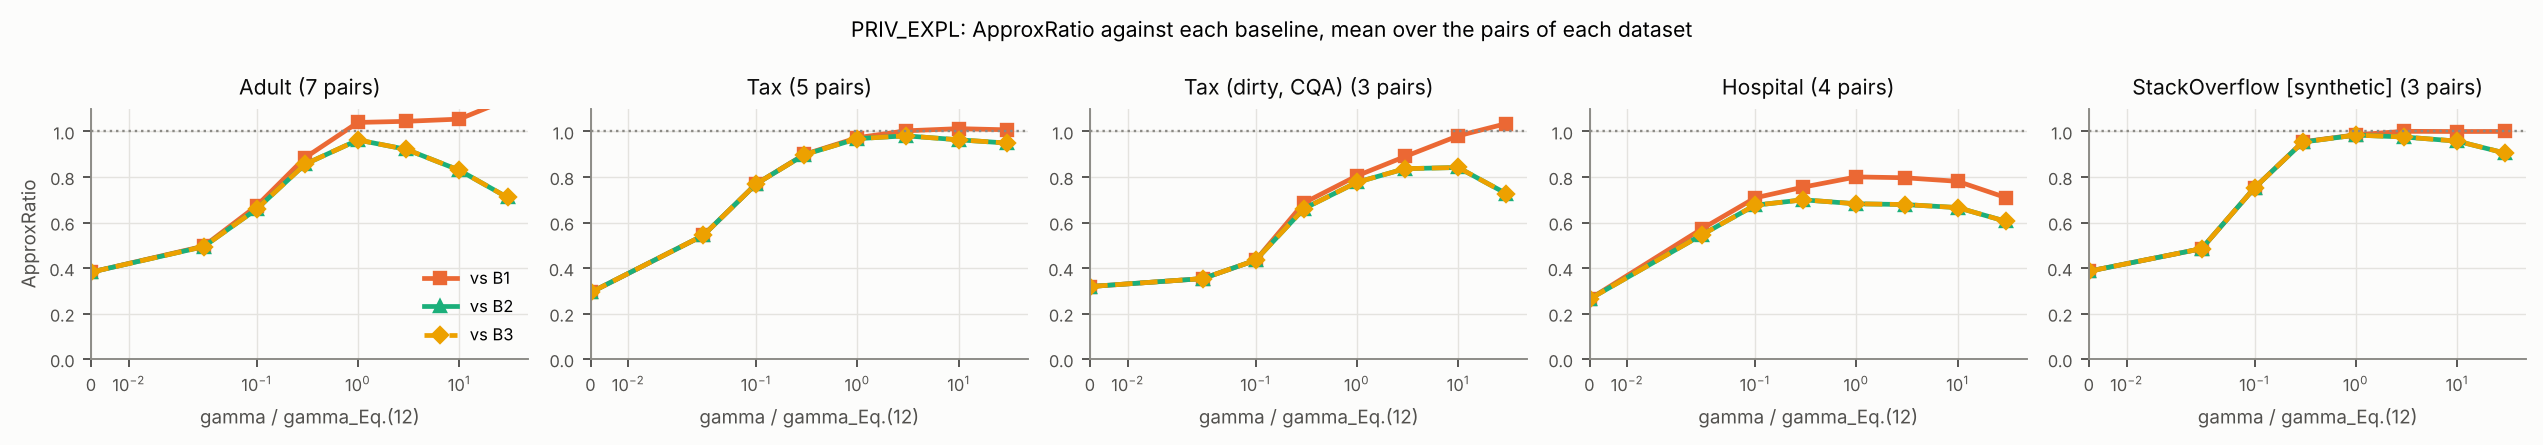
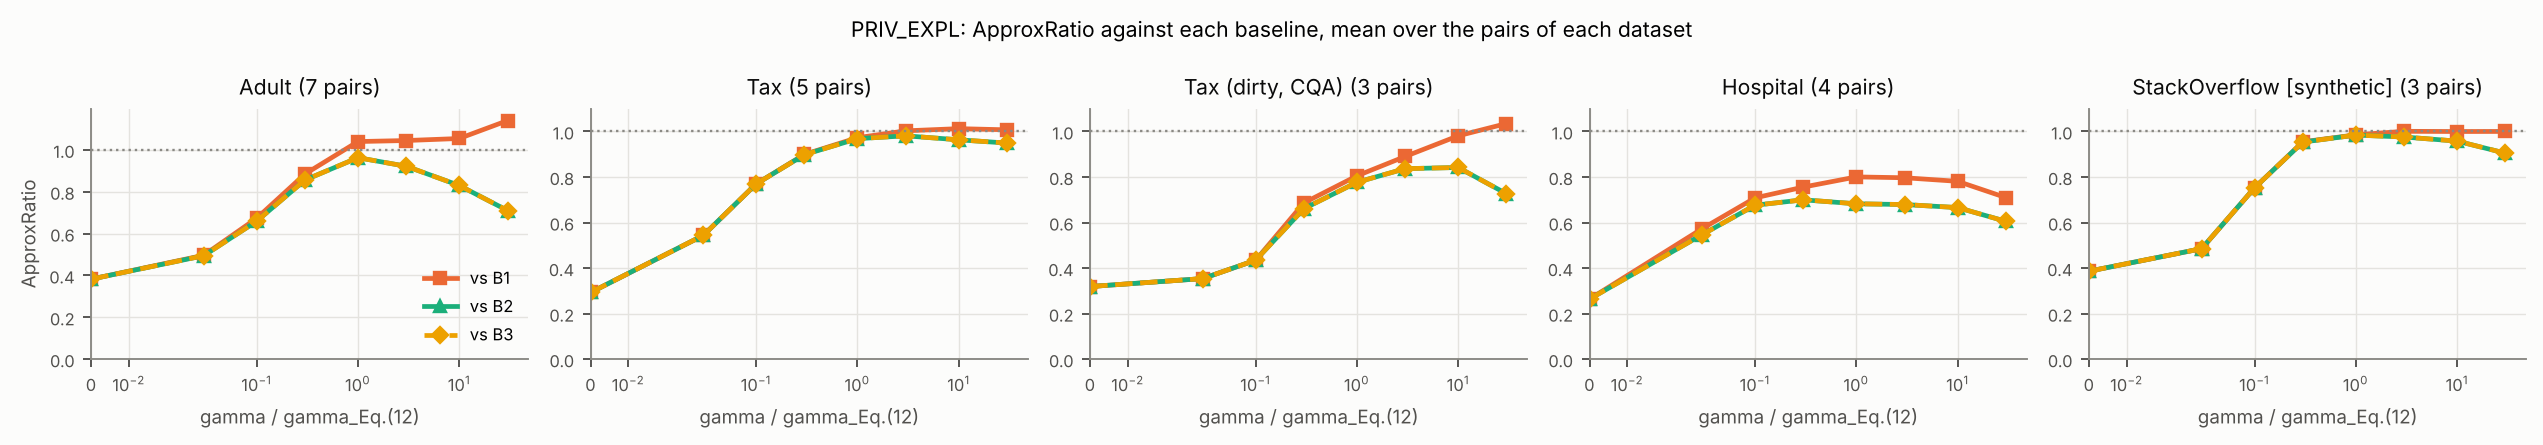
Adaptive y-limit for ApproxRatio panels; replot E2 and E6 from raw data
Claude-Session: https://claude.ai/code/session_01U646mcyCdg3stbhPYEuT1B

diff --git a/src/pqde/plotting.py b/src/pqde/plotting.py
@@ -323,7 +323,10 @@ def plot_accuracy_datasets(summary: pd.DataFrame, by_ds: dict, metric: str, labe
         _xscale(ax, sub.value, logx)
         if metric == "ratio":
             ax.axhline(1.0, color=MUTED, linestyle=":", linewidth=1)
-        ax.set_ylim(0, 1.1 if metric == "ratio" else 1.05)
+            top = float(np.nanmax(sub[[f"ratio_{b}_mean" for b in ("B1", "B2", "B3")]].to_numpy()))
+            ax.set_ylim(0, max(1.1, top * 1.05))
+        else:
+            ax.set_ylim(0, 1.05)
         ax.set_title(f"{_ds_title(ds, synthetic)} ({len(pids)} pairs)")
         ax.set_xlabel(xlabel)
         if j == 0:

diff --git a/results/REPORT.md b/results/REPORT.md
@@ -219,13 +219,13 @@ PRIV_EXPL, B1, B2, B3 on the original route; OPT_PRIV_EXPL = PRIV_EXPL with O1 +
 
 ![running time adult](e4/runtime_adult.png)
 
-![running time hospital](e4/runtime_hospital.png)
-
-![running time stackoverflow](e4/runtime_stackoverflow.png)
-
 ![running time tax](e4/runtime_tax.png)
 
 ![running time tax_dirty](e4/runtime_tax_dirty.png)
+
+![running time hospital](e4/runtime_hospital.png)
+
+![running time stackoverflow](e4/runtime_stackoverflow.png)
 
 ## E5 — cost per pair at the defaults, B2 growth, optimisations
 
